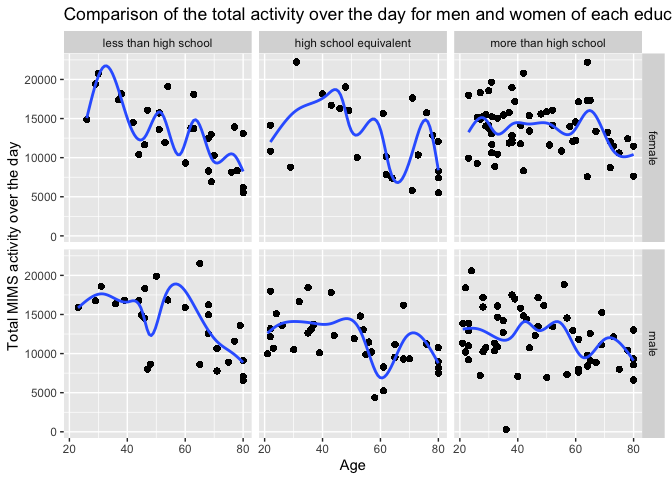
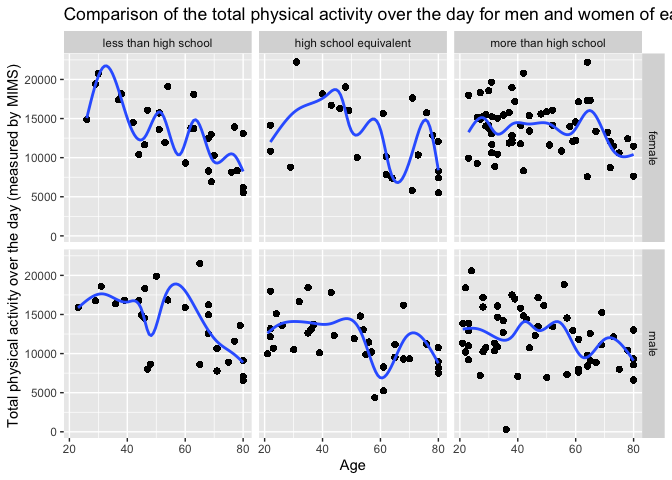
added explanations for last two plots in problem 3 and more message=FALSE and warning=FALSE

Changed region(s): [[0.375, 0.0, 1.0, 0.0625], [0.0, 0.125, 0.0312, 0.9062]]

diff --git a/p8105_hw3_smy2122.md b/p8105_hw3_smy2122.md
@@ -295,8 +295,6 @@ merged_df =
   inner_join(demographic_df, accelerometer_df)
 ```
 
-    ## Joining with `by = join_by(seqn)`
-
 Below is a table of the number of men and women in each education
 category.
 
@@ -316,7 +314,7 @@ merged_df |>
 | male   |                    27 |                     35 |                    56 |
 
 Below is a box plot of the age distributions for men and women in each
-education category.
+education category. The box plot shows that
 
 ``` r
 merged_df |>
@@ -331,6 +329,17 @@ merged_df |>
 ```
 
 ![](p8105_hw3_smy2122_files/figure-gfm/age%20distribution%20plot-1.png)<!-- -->
+
+Below is a three-panel plot of total activity over the day for men and
+women of each education level. The plot shows that total physical
+activity decreases most sharply for men and women with less than a high
+school education and least sharply for men and women with more than a
+high school education. Among men and women with a high school education
+or equivalent, total physical activity sharply dropped between ages
+60-63 but then sharply increased around ages 70-34, and a similar
+(although less strong) trend occurred for men but not women with more
+than a high school education. By age 80, females with more than a high
+school education had the highest total physical activity.
 
 ``` r
 merged_df |>
@@ -348,17 +357,24 @@ merged_df |>
   facet_grid(sex ~ education) +
   labs(
     x = "Age",
-    y = "Total MIMS activity over the day",
-    title = "Comparison of the total activity over the day for men and women of each education level"
+    y = "Total physical activity over the day (measured by MIMS)",
+    title = "Comparison of the total physical activity over the day for men and women of each education level"
   )
 ```
-
-    ## `geom_smooth()` using method = 'gam' and formula = 'y ~ s(x, bs = "cs")'
 
 ![](p8105_hw3_smy2122_files/figure-gfm/total%20activity%20plot-1.png)<!-- -->
 
 Below is a three-panel plot that shows the 24-hour activity time courses
-for each education level.
+for each education level. The plot shows that, for those with less than
+a high school education or with a high school education or equivalent,
+physical activity is highest on average in the early afternoon before
+noon, whereas for those with more than a high school education, physical
+activity peaks twice: right before noon and in the evening. (This trend
+may reflect the possibility that men and women with more than a high
+school education may be more likely to work traditional 9am to 5pm
+corporate-style jobs.) Physical activity for women of all education
+levels seems highest before noon whereas physical activity for men of
+all education levels seems highest in the evening.
 
 ``` r
 merged_df |>
@@ -375,12 +391,10 @@ merged_df |>
   facet_grid(. ~ education) +
   labs(
     x = "Minute",
-    y = "MIMS value",
+    y = "Physical activity (measured by MIMS)",
     color = "Sex",
-    title = "24-hour MIMS activity for each education level"
+    title = "24-hour physical activity for each education level"
   )
 ```
-
-    ## `geom_smooth()` using method = 'gam' and formula = 'y ~ s(x, bs = "cs")'
 
 ![](p8105_hw3_smy2122_files/figure-gfm/three-panel%20plot-1.png)<!-- -->
